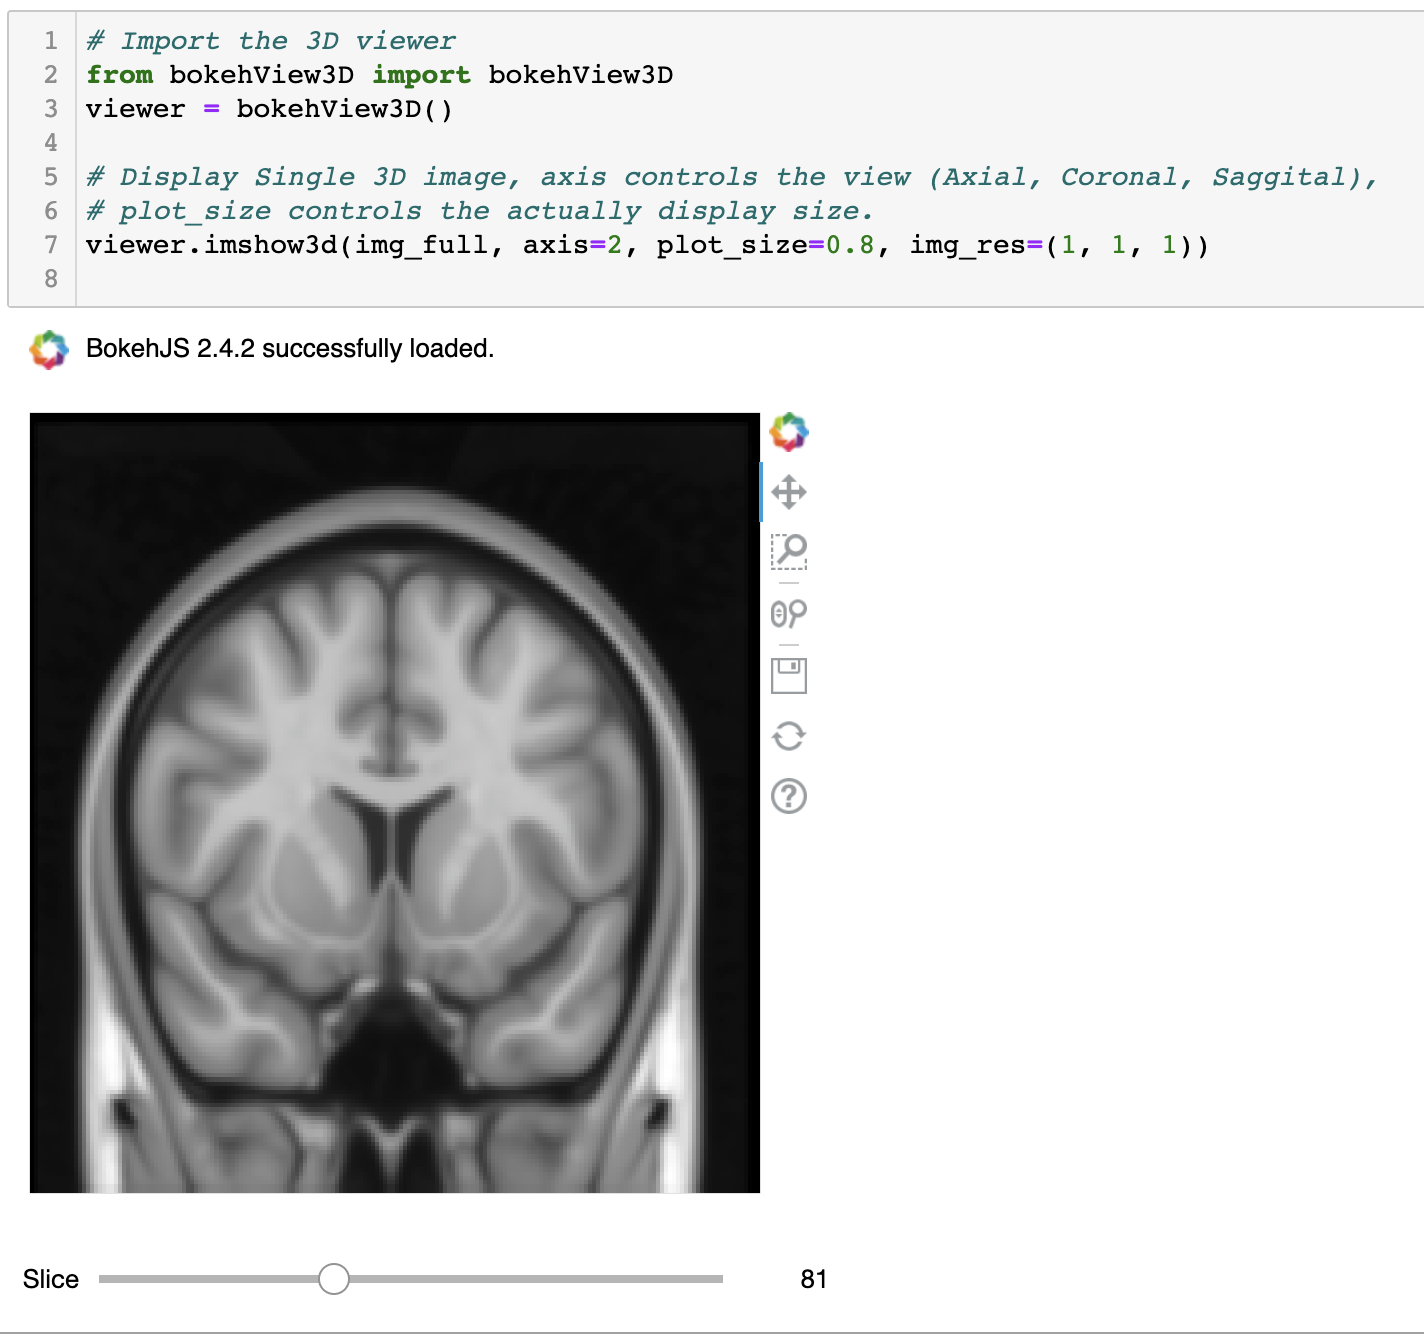
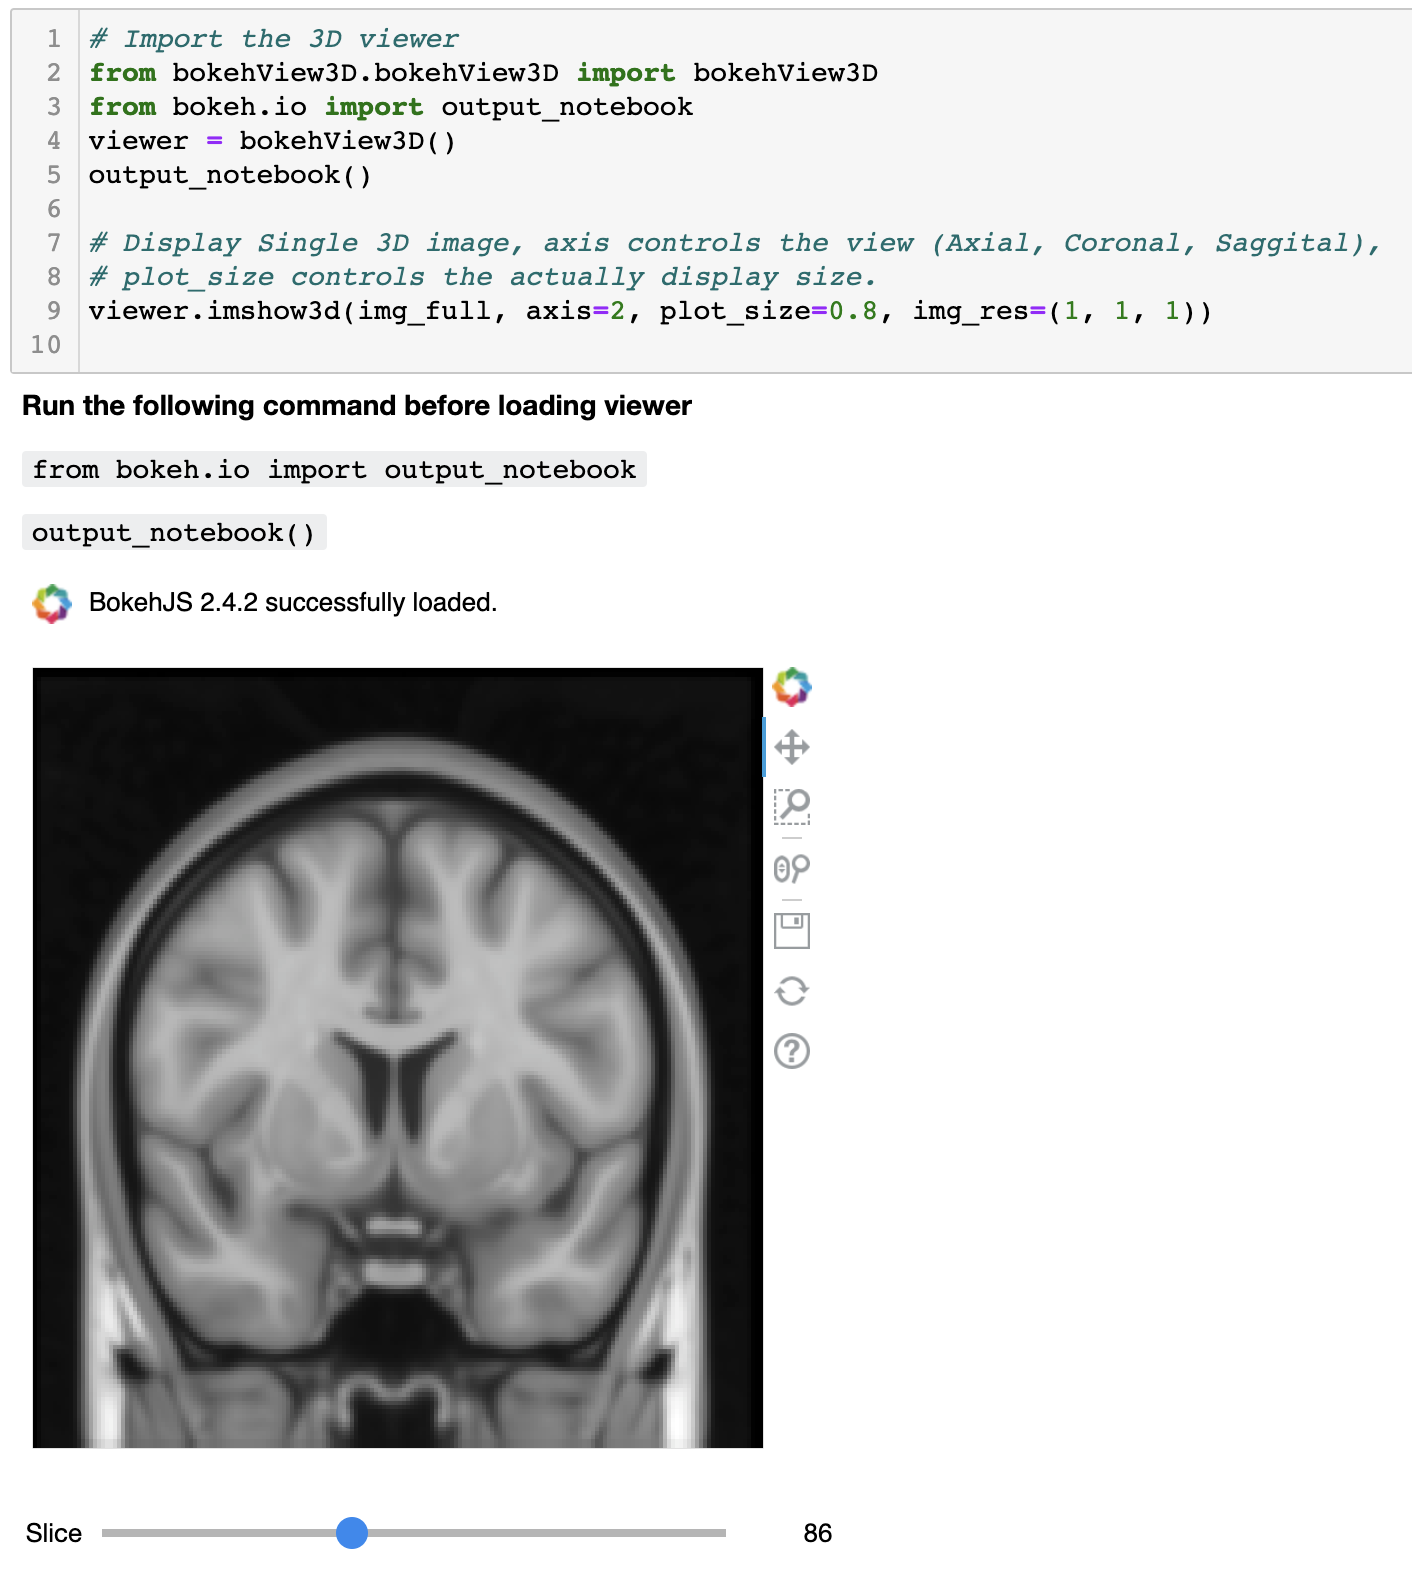
Remodulize into package

Changed region(s): [[0.0, 0.0, 0.966, 1.0], [0.5609, 0.9471, 0.5921, 1.0]]

diff --git a/bokehView3D/bokehView3D.py b/bokehView3D/bokehView3D.py
@@ -6,14 +6,18 @@ from bokeh.plotting import figure, show
 from bokeh.models import ColumnDataSource, GlyphRenderer, Range1d
 from bokeh.io import push_notebook, output_notebook
 import ipywidgets
-from IPython.display import display
+from IPython.display import display, Markdown
 import numpy as np
 
 
 class bokehView3D:
 
     def __init__(self):
-        output_notebook()
+
+        display(Markdown('**Run the following command before loading viewer**'))
+        display(Markdown('`from bokeh.io import output_notebook`'))
+        display(Markdown('`output_notebook()`'))
+        # output_notebook()
 
     def imshow3d(self, img, axis=0, plot_size=1, img_res=(1, 1, 1)):
 

diff --git a/setup.py b/setup.py
@@ -1,0 +1,19 @@
+#!/usr/bin/env python
+
+import os
+from setuptools import setup
+
+
+def read(fname):
+    return open(os.path.join(os.path.dirname(__file__), fname)).read()
+
+
+setup(name='bokehView3D',
+      version='0.0.2',
+      description='View 3D images in Jupyter Notebook',
+      author='Zhongnan Fang',
+      author_email='zhongnanf@gmail.com',
+      url='https://zhongnanf.github.io',
+      license="MIT",
+      packages=['bokehView3D'],
+      long_description=read('README.md'))
